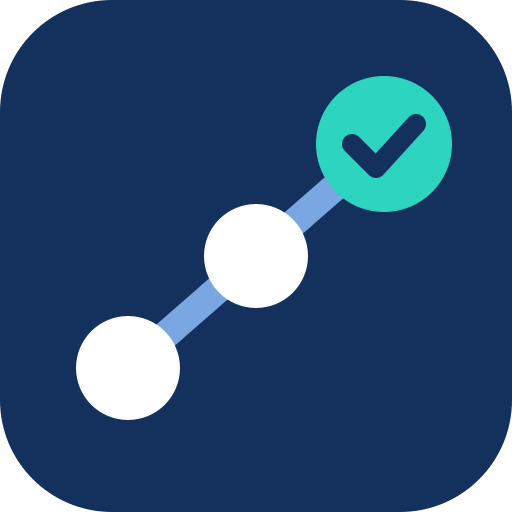
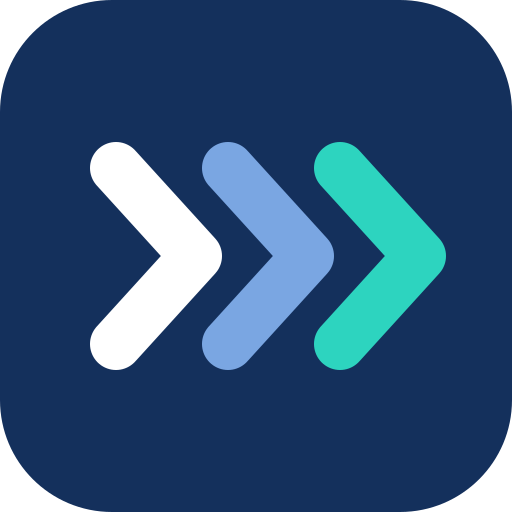
feat: ícone Etapas, Enter navega entre linhas das tabelas e identidade própria do app em dev
- Ícone novo (AV → SD → PRO) no executável, janela, barra de título e login (recursos/icone*.svg)
- Enter numa célula editável vai para o campo de baixo (Shift+Enter, para o de cima) e não envia a aba
- npm run dev usa outra AppUserModelID: o ícone do Electron não contamina o grupo da produção na barra
- Versão 0.7.2 e CHANGELOG

Changed region(s): [[0.125, 0.125, 0.9062, 0.8438]]

diff --git a/renderer/compartilhado/ui/Tabela.tsx b/renderer/compartilhado/ui/Tabela.tsx
@@ -1,12 +1,49 @@
 import clsx from 'clsx';
-import type { ComponentProps } from 'react';
+import type { ComponentProps, KeyboardEvent } from 'react';
 import { Ajuda } from './Ajuda';
 
+/** Campos de célula que o Enter percorre: texto, número, data e seleção (caixas de marcar ficam de fora). */
+const CAMPO_DA_CELULA =
+  'input:not([type=checkbox]):not([type=radio]):not([type=hidden]):not([type=button]):not(:disabled), select:not(:disabled)';
+
+/**
+ * Enter numa célula editável vai para o campo da mesma coluna na linha de baixo (Shift+Enter, na de cima),
+ * como numa planilha. Também evita que o Enter envie o formulário da aba sem querer.
+ * @param evento tecla pressionada dentro da tabela
+ */
+function moverComEnter(evento: KeyboardEvent<HTMLTableElement>): void {
+  if (evento.key !== 'Enter' || evento.altKey || evento.ctrlKey || evento.metaKey || evento.nativeEvent.isComposing) return;
+  const campo = evento.target;
+  if (!(campo instanceof HTMLInputElement || campo instanceof HTMLSelectElement) || !campo.matches(CAMPO_DA_CELULA)) return;
+  const celula = campo.closest('td');
+  const linha = celula?.parentElement;
+  if (!celula || !(linha instanceof HTMLTableRowElement)) return;
+
+  evento.preventDefault();
+  let destino: Element | null = linha;
+  while ((destino = evento.shiftKey ? destino.previousElementSibling : destino.nextElementSibling)) {
+    if (!(destino instanceof HTMLTableRowElement)) continue;
+    const alvo = destino.cells[celula.cellIndex]?.querySelector<HTMLInputElement | HTMLSelectElement>(CAMPO_DA_CELULA);
+    if (alvo) {
+      alvo.focus();
+      if (alvo instanceof HTMLInputElement) alvo.select();
+      return;
+    }
+  }
+}
+
 /** Primitivas de tabela. Linhas sem blur (desempenho): o vidro fica no painel que envolve a tabela. */
-export function Tabela({ className, ...props }: ComponentProps<'table'>) {
+export function Tabela({ className, onKeyDown, ...props }: ComponentProps<'table'>) {
   return (
     <div className="overflow-x-auto">
-      <table className={clsx('w-full border-separate border-spacing-0 text-sm', className)} {...props} />
+      <table
+        className={clsx('w-full border-separate border-spacing-0 text-sm', className)}
+        onKeyDown={(evento) => {
+          onKeyDown?.(evento);
+          if (!evento.defaultPrevented) moverComEnter(evento);
+        }}
+        {...props}
+      />
     </div>
   );
 }

diff --git a/renderer/modulos/usuarios/componentes/TelaDeLogin.tsx b/renderer/modulos/usuarios/componentes/TelaDeLogin.tsx
@@ -1,6 +1,7 @@
 'use client';
 
-import { CalendarRange, KeyRound, LogIn, ShieldCheck } from 'lucide-react';
+import { KeyRound, LogIn, ShieldCheck } from 'lucide-react';
+import { IconeDoApp } from '@/compartilhado/ui/IconeDoApp';
 import { type FormEvent, useState } from 'react';
 import { ErroDaApi, mensagemDeErro } from '@/compartilhado/api/cliente-desktop';
 import { Botao } from '@/compartilhado/ui/Botao';
@@ -58,9 +59,7 @@ export function TelaDeLogin() {
     <div className="flex min-h-full items-center justify-center p-6">
       <PainelVidro className="w-full max-w-sm p-8">
         <div className="mb-6 flex flex-col items-center text-center">
-          <div className="mb-4 grid size-12 place-items-center rounded-2xl bg-linear-to-br from-primaria to-destaque text-sobre-primaria">
-            <CalendarRange aria-hidden className="size-6" />
-          </div>
+          <IconeDoApp className="mb-4 size-12" />
           <h1 className="text-lg font-semibold">Gestão de Novos Desenvolvimentos</h1>
           <p className="text-xs font-semibold uppercase tracking-[0.18em] text-titulo-secao">AV · SD · PRO</p>
           <p className="mt-1 text-sm text-texto-secundario">

diff --git a/renderer/compartilhado/ui/IconeDoApp.tsx b/renderer/compartilhado/ui/IconeDoApp.tsx
@@ -1,0 +1,17 @@
+import clsx from 'clsx';
+
+/**
+ * Ícone do app ("Etapas": AV → SD → PRO), o mesmo do executável (recursos/icone.svg), para a barra de título
+ * e a tela de login. As cores são fixas: é a marca, igual no tema claro e no escuro.
+ * @param className tamanho (ex.: `size-6`)
+ */
+export function IconeDoApp({ className }: { className?: string }) {
+  return (
+    <svg viewBox="0 0 256 256" aria-hidden className={clsx('shrink-0', className)}>
+      <rect width="256" height="256" rx="56" fill="#14305c" />
+      <path d="M58 84 L98 128 L58 172" fill="none" stroke="#ffffff" strokeWidth="26" strokeLinecap="round" strokeLinejoin="round" />
+      <path d="M114 84 L154 128 L114 172" fill="none" stroke="#7aa6e2" strokeWidth="26" strokeLinecap="round" strokeLinejoin="round" />
+      <path d="M170 84 L210 128 L170 172" fill="none" stroke="#2dd4bf" strokeWidth="26" strokeLinecap="round" strokeLinejoin="round" />
+    </svg>
+  );
+}

diff --git a/renderer/compartilhado/layout/BarraDeTitulo.tsx b/renderer/compartilhado/layout/BarraDeTitulo.tsx
@@ -1,5 +1,5 @@
-import { CalendarRange } from 'lucide-react';
 import type { ReactNode } from 'react';
+import { IconeDoApp } from '../ui/IconeDoApp';
 
 /**
  * Barra de título própria (titleBarStyle: 'hidden'). A área toda arrasta a janela;
@@ -12,9 +12,7 @@ export function BarraDeTitulo({ acoes }: { acoes?: ReactNode }) {
       className="regiao-arrasto flex h-10 shrink-0 select-none items-center gap-3 pl-4"
       style={{ paddingRight: 'calc(100vw - env(titlebar-area-width, 100vw) + 0.75rem)' }}
     >
-      <div className="grid size-6 place-items-center rounded-md bg-linear-to-br from-primaria to-destaque text-sobre-primaria">
-        <CalendarRange aria-hidden className="size-3.5" />
-      </div>
+      <IconeDoApp className="size-6" />
       <span className="text-xs font-semibold tracking-wide text-texto-secundario">
         Gestão de Novos Desenvolvimentos (AV-SD-PRO)
       </span>

diff --git a/electron/main.ts b/electron/main.ts
@@ -25,8 +25,10 @@ app.userAgentFallback = app.userAgentFallback.normalize('NFD').replace(/[^\x20-\
 registrarEsquemaApp();
 
 // Uma instância por vez: duas escrevendo no mesmo arquivo .db causariam conflitos.
-// Identidade do app no Windows: os avisos de notificação aparecem com o nome e o ícone dele.
-app.setAppUserModelId('com.ferkoda.novosdesenvolvimentos');
+// Identidade do app no Windows: os avisos de notificação aparecem com o nome e o ícone dele. Em
+// desenvolvimento (`npm run dev`, electron.exe) a identidade é outra: senão o Windows guarda o ícone do
+// Electron para o grupo da barra de tarefas e passa a mostrá-lo também no executável de produção.
+app.setAppUserModelId(app.isPackaged ? 'com.ferkoda.novosdesenvolvimentos' : 'com.ferkoda.novosdesenvolvimentos.dev');
 
 if (!app.requestSingleInstanceLock()) {
   app.quit();

diff --git a/CHANGELOG.md b/CHANGELOG.md
@@ -1,5 +1,19 @@
 # Patch Notes — Gestão de Novos Desenvolvimentos (AV-SD-PRO)
 
+## 0.7.2 — 18/11/2026
+
+### Novidades
+- **Ícone novo ("Etapas"):** três avanços em sequência, AV → SD → PRO, o último em verde-água. Vale para o
+  executável, a barra de tarefas, a barra de título e a tela de login.
+- **Enter nas tabelas:** numa tabela de preenchimento (cargas de máquina, operações, materiais, custos, contatos,
+  investimentos…), Enter leva ao campo da mesma coluna na linha de baixo; Shift+Enter, à linha de cima. O Enter não
+  envia mais a aba sem querer.
+
+### Correções
+- A barra de tarefas mostrava o ícone padrão do Electron no computador de quem também roda a versão de
+  desenvolvimento: as duas usavam a mesma identidade no Windows. A versão de desenvolvimento agora tem identidade
+  própria. Se o ícone antigo continuar aparecendo, rode `ie4uinit.exe -show` e abra o app de novo.
+
 ## 0.7.1 — 18/11/2026
 
 ### Novidades
